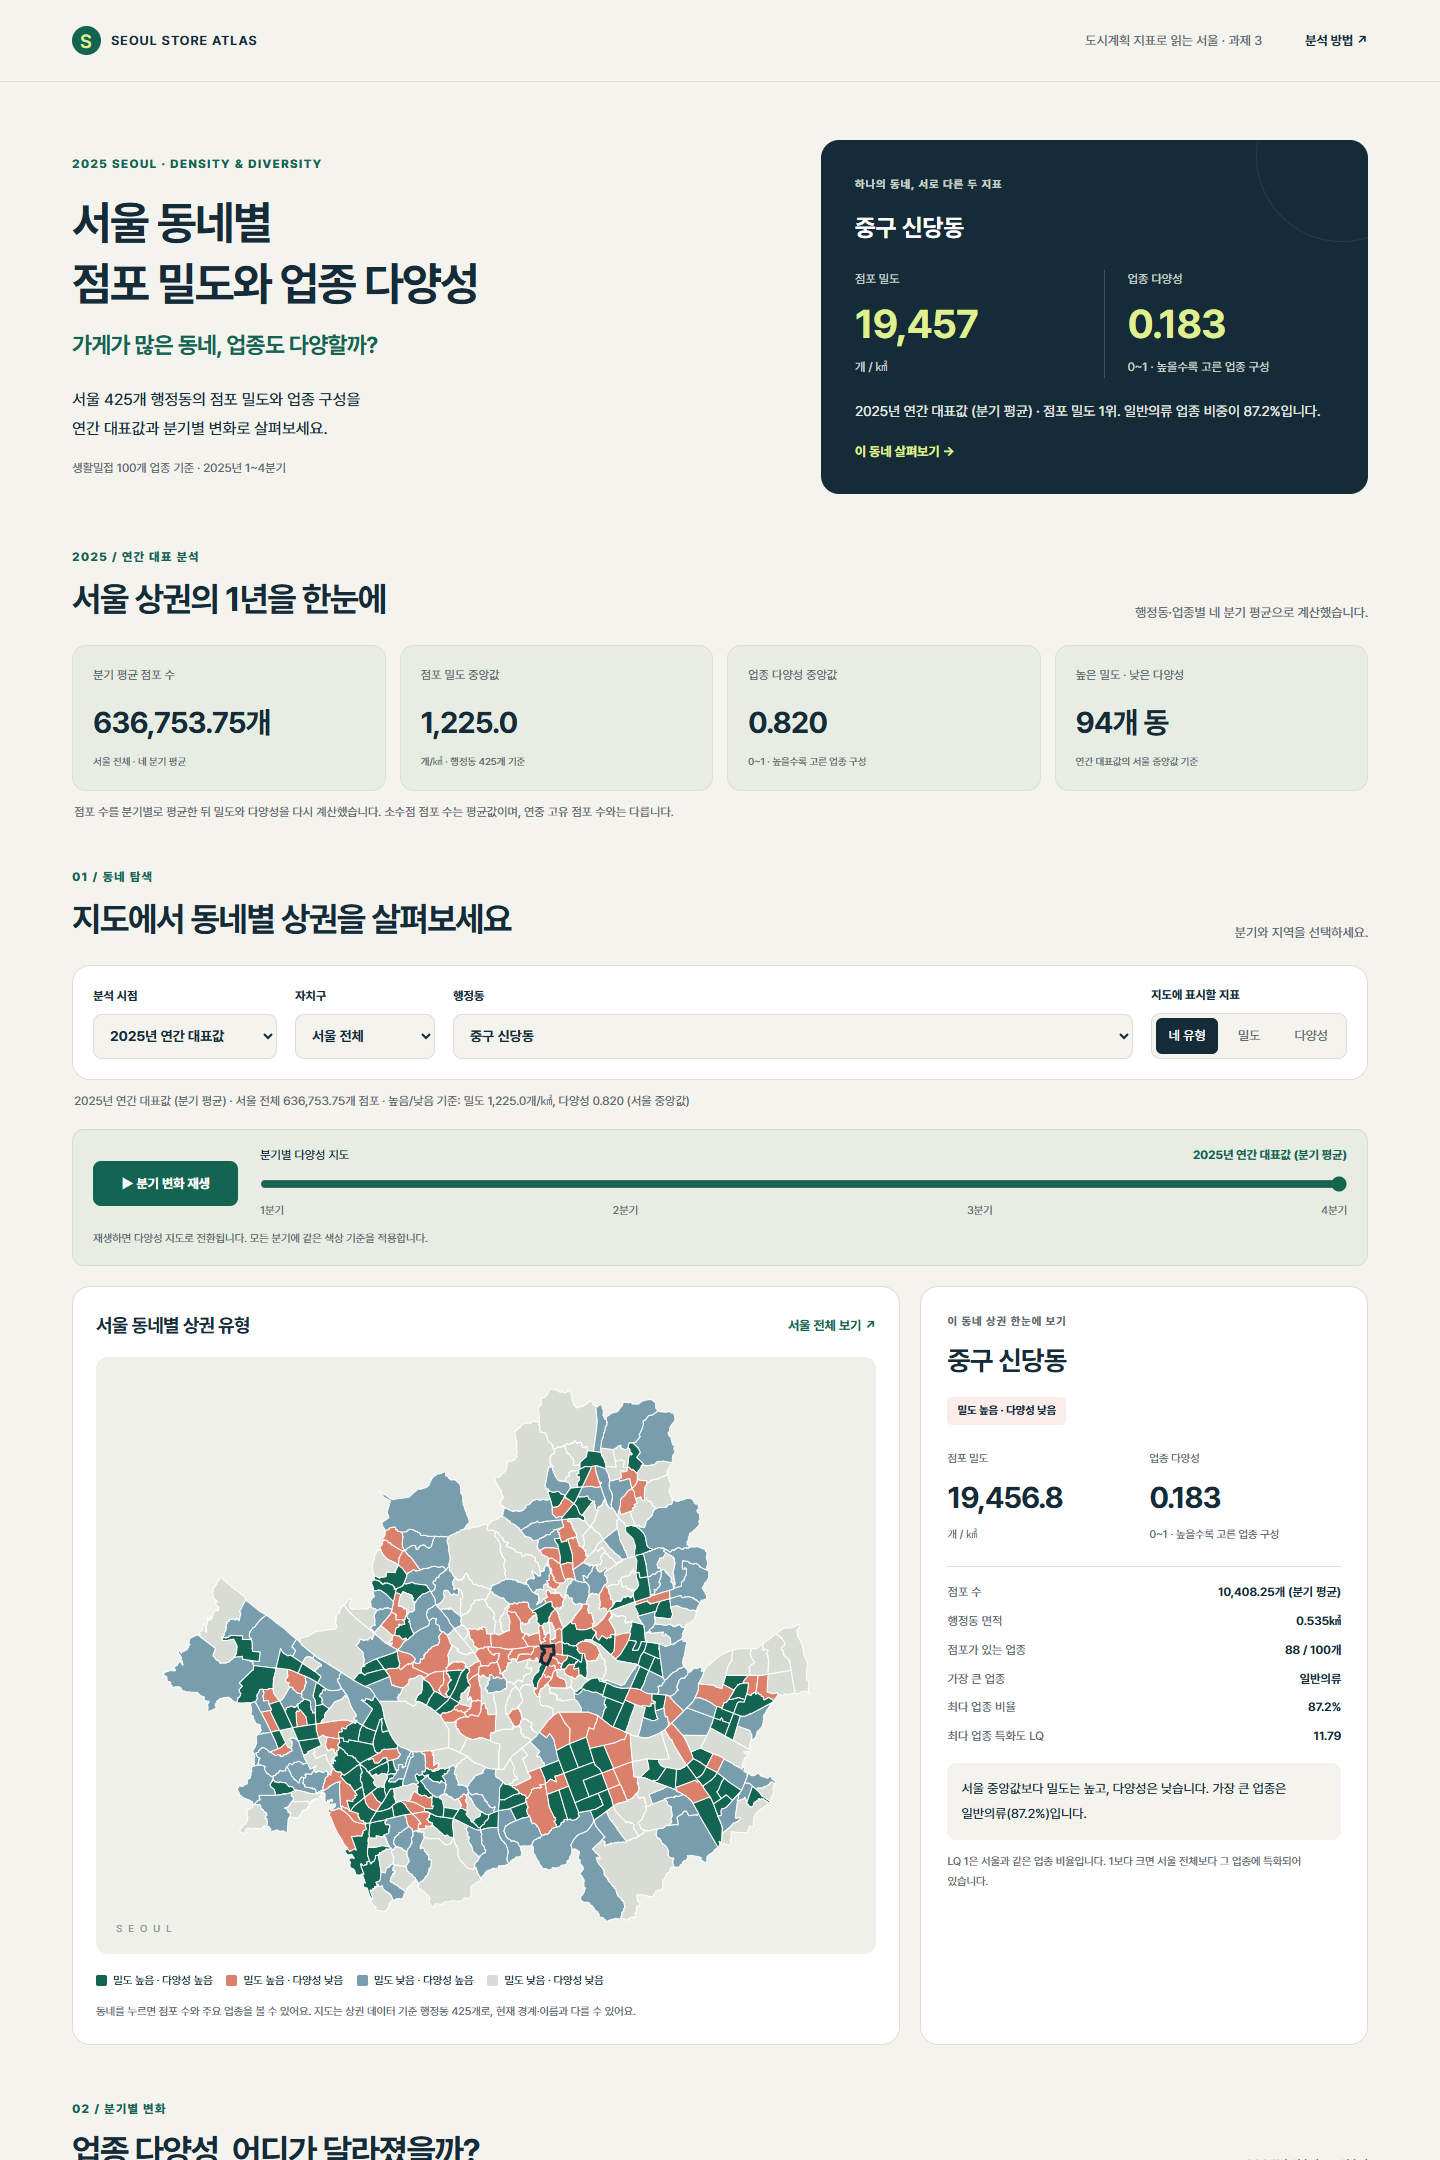
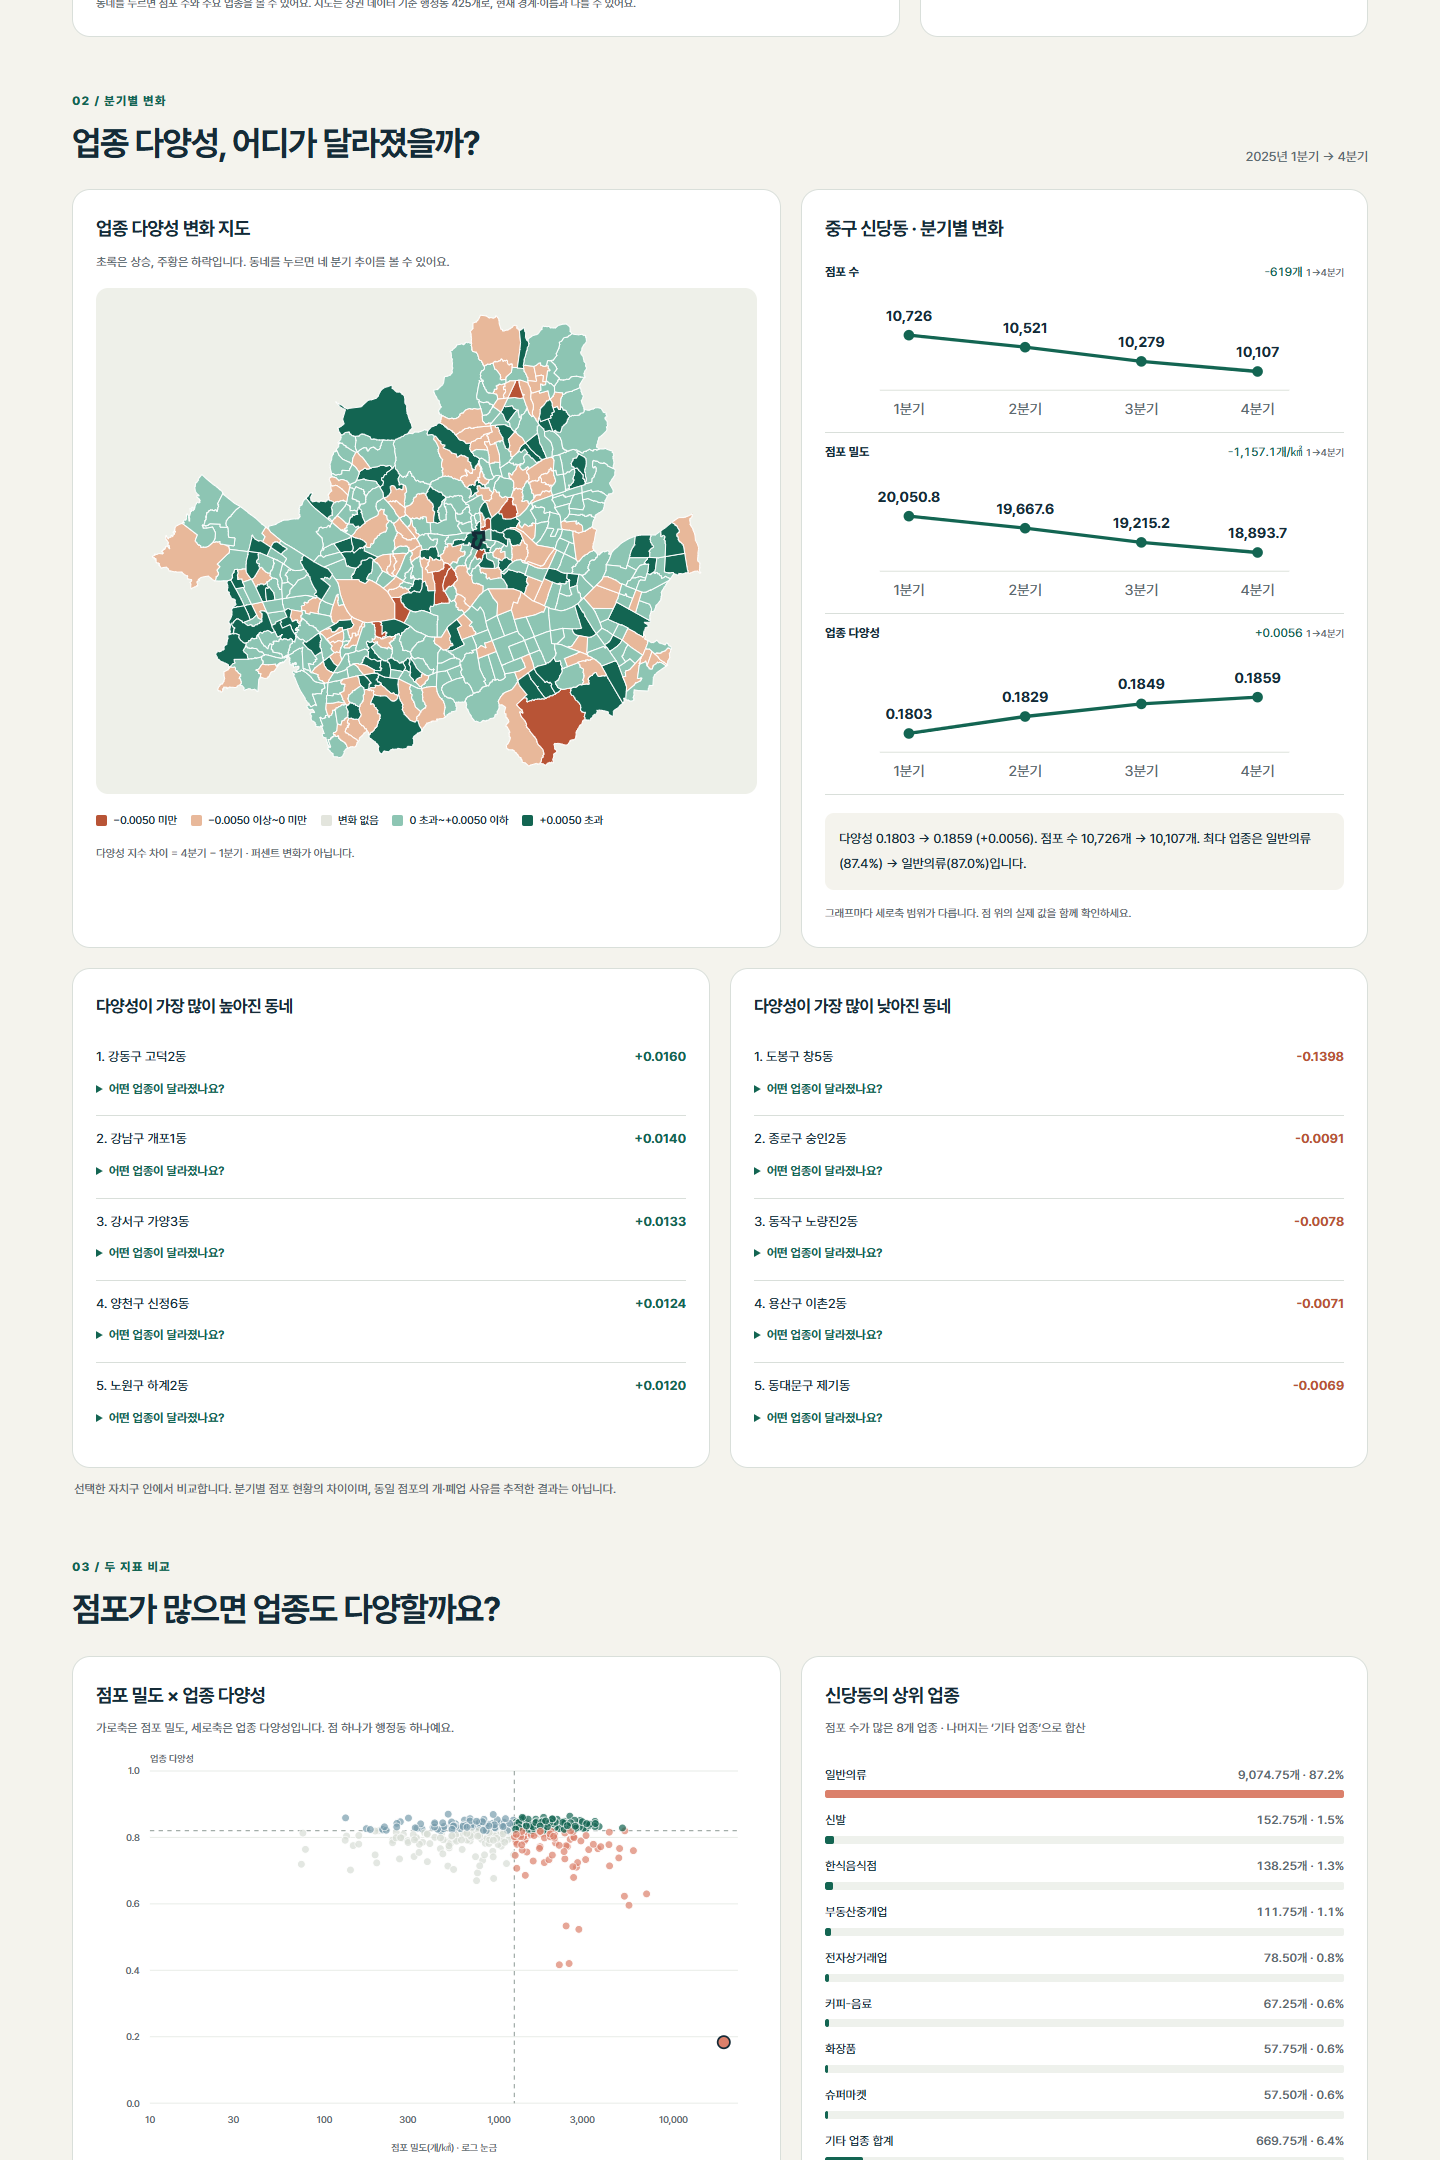
다양성 변화 순위에 업종별 증감과 비중 설명 추가

diff --git a/dist/app.js b/dist/app.js
@@ -208,6 +208,16 @@ function renderAnnual() {
   $('annual-cards').innerHTML = cards.map(([label, value, note]) => `<article><span>${label}</span><strong>${value}</strong><small>${note}</small></article>`).join('');
 }
 
+function industryChangeExplanation(i) {
+  const a = data.quarters['20251'], b = data.quarters['20254'];
+  const first = a.rows[i], last = b.rows[i];
+  const changes = data.industries.map((industry,k) => ({name:industry[1], before:a.counts[i][k], after:b.counts[i][k], change:b.counts[i][k]-a.counts[i][k]}));
+  const up = changes.filter(r=>r.change>0).sort((a,b)=>b.change-a.change).slice(0,3);
+  const down = changes.filter(r=>r.change<0).sort((a,b)=>a.change-b.change).slice(0,3);
+  const table = (items, label) => `<h4>${label}</h4>${items.length ? `<div class="industry-change-table"><table><thead><tr><th>업종</th><th>점포 수<br>1분기 → 4분기</th><th>증감</th><th>비중<br>1분기 → 4분기</th></tr></thead><tbody>${items.map(r=>`<tr><td>${esc(r.name)}</td><td>${fmt(r.before)} → ${fmt(r.after)}</td><td class="${r.change>0?'rise':'fall'}">${signed(r.change,0)}개</td><td>${fmt(r.before/first.total*100,1)}% → ${fmt(r.after/last.total*100,1)}%</td></tr>`).join('')}</tbody></table></div>`:'<p>해당하는 업종이 없습니다.</p>'}`;
+  return `<details class="industry-change"><summary>어떤 업종이 달라졌나요?</summary><div class="industry-change-body"><p><b>다양성 ${fmt(first.entropy,4)} → ${fmt(last.entropy,4)}</b><br>전체 점포 ${fmt(first.total)} → ${fmt(last.total)}개 · 점포가 있는 업종 ${first.active} → ${last.active}개</p><p>1분기 최다 업종은 ${esc(data.industries[first.top][1])}(${fmt(first.topShare*100,1)}%), 4분기는 ${esc(data.industries[last.top][1])}(${fmt(last.topShare*100,1)}%)입니다. 최다 업종 비중이 ${fmt(Math.abs(last.topShare-first.topShare)*100,1)}%p ${last.topShare>=first.topShare?'높아졌':'낮아졌'}습니다.</p>${table(up,'점포 증가 상위 3개 업종')}${table(down,'점포 감소 상위 3개 업종')}<p class="tiny">점포 수 증감 순위입니다. 다양성은 전체 100개 업종의 비중으로 계산하므로 점포 수가 늘어도 특정 업종에 집중되면 낮아질 수 있어요. 자료상 현황 차이로, 실제 개·폐업이나 분류 변경 여부까지 확인한 결과는 아닙니다.</p></div></details>`;
+}
+
 function renderChanges() {
   // 극단적인 한 동 때문에 작은 변화가 묻히지 않도록 ±0.005에서 색을 나눕니다.
   // 표시용 구간이며 통계적 유의성 기준이 아닙니다.
@@ -251,7 +261,7 @@ function renderChanges() {
   $('trend-reading').textContent = `다양성 ${fmt(first.entropy,4)} → ${fmt(last.entropy,4)} (${signed(delta(i))}). 점포 수 ${fmt(first.total)}개 → ${fmt(last.total)}개. 최다 업종은 ${data.industries[first.top][1]}(${fmt(first.topShare*100,1)}%) → ${data.industries[last.top][1]}(${fmt(last.topShare*100,1)}%)입니다.`;
   const ids = allVisible().sort((a,b) => delta(b)-delta(a));
   for (const [id, list] of [['rising-list', ids.filter((i) => delta(i) > 0).slice(0,5)], ['falling-list', [...ids].reverse().filter((i) => delta(i) < 0).slice(0,5)]]) {
-    $(id).innerHTML = list.length ? list.map((i, rank) => `<button class="change-rank" data-i="${i}"><span>${rank+1}. ${esc(data.dongs[i].district)} ${esc(data.dongs[i].name)}</span><b class="${delta(i)>0 ? 'rise' : 'fall'}">${signed(delta(i))}</b></button>`).join('') : '<p class="chart-sub">해당 방향의 변화가 있는 동네가 없습니다.</p>';
+    $(id).innerHTML = list.length ? list.map((i, rank) => `<div class="change-rank-item"><button class="change-rank" data-i="${i}"><span>${rank+1}. ${esc(data.dongs[i].district)} ${esc(data.dongs[i].name)}</span><b class="${delta(i)>0 ? 'rise' : 'fall'}">${signed(delta(i))}</b></button>${industryChangeExplanation(i)}</div>`).join('') : '<p class="chart-sub">해당 방향의 변화가 있는 동네가 없습니다.</p>';
     $(id).querySelectorAll('button').forEach((b) => b.addEventListener('click', () => choose(b.dataset.i)));
   }
 }

diff --git a/dist/updates.css b/dist/updates.css
@@ -1,3 +1,4 @@
+.change-rank-item{border-bottom:1px solid var(--line);padding-bottom:6px}.change-rank-item:last-child{border-bottom:0}.change-rank-item .change-rank{border:0}.industry-change{border:0}.industry-change summary{font-size:12px;color:var(--green);padding:0 0 10px}.industry-change-body{background:var(--paper);padding:14px;border-radius:9px;font-size:12px}.industry-change-body p{margin-bottom:12px}.industry-change-body h4{font-size:12px;margin:16px 0 7px}.industry-change-table{overflow:auto}.industry-change-table table{min-width:400px;font-size:11px}.industry-change-table td,.industry-change-table th{padding:8px 6px}.industry-change-table td{white-space:nowrap}.industry-change-body .tiny{margin-bottom:0}
 h1{font-size:clamp(30px,3.25vw,46px);line-height:1.32;margin:18px 0 12px;letter-spacing:-1.8px}
 .hero-subtitle{font-size:clamp(17px,1.65vw,23px);font-weight:650;color:var(--green);margin-bottom:22px;letter-spacing:-.6px}
 .hero-copy{font-size:16px}.hero{grid-template-columns:1.25fr 1fr;gap:5%}
